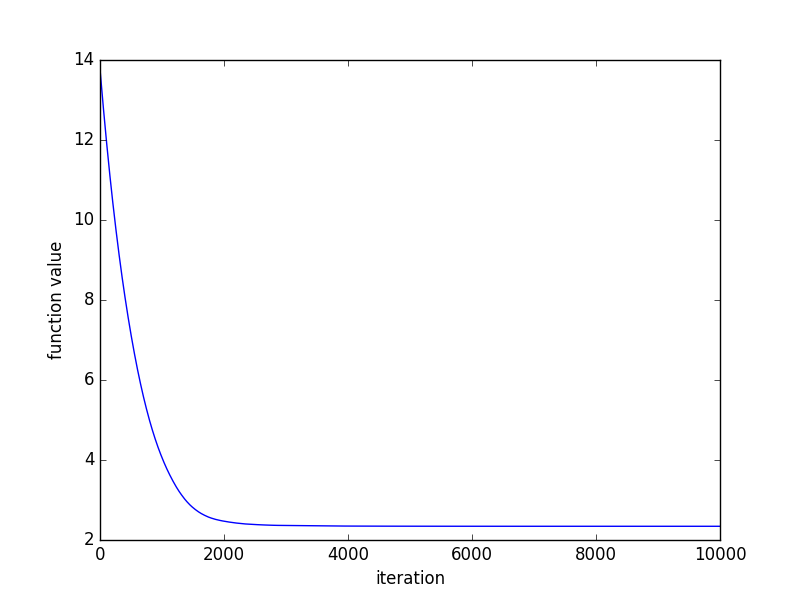
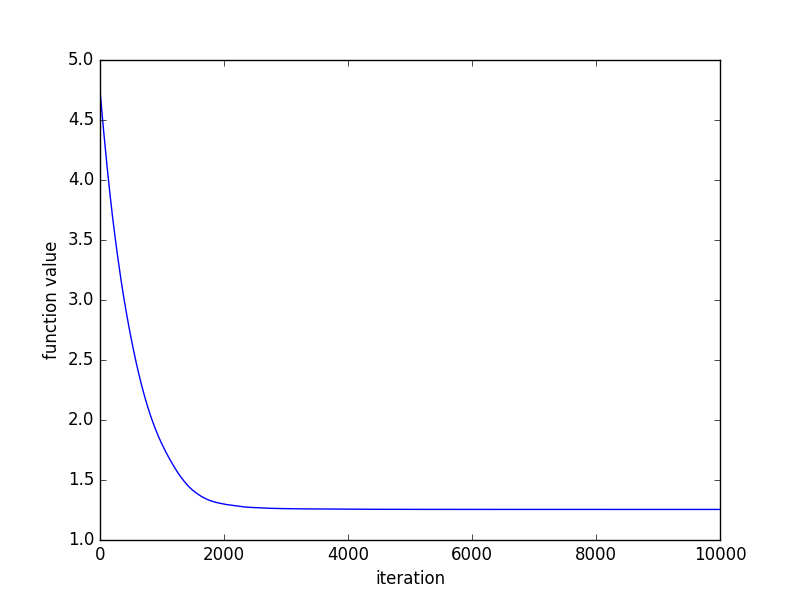
edit typo of hw2-3-2

diff --git a/hw2/q3-2.py b/hw2/q3-2.py
@@ -31,7 +31,7 @@ def f(w):
     v = 0
     for i in range(n):
         v += max(0, 1 - w.dot(x[i]))
-    return (v/n) + lmb / 2 + np.linalg.norm(w)
+    return (v/n) + lmb / 2 * np.linalg.norm(w)
 
 def accuracy(w):
     ret = 0
